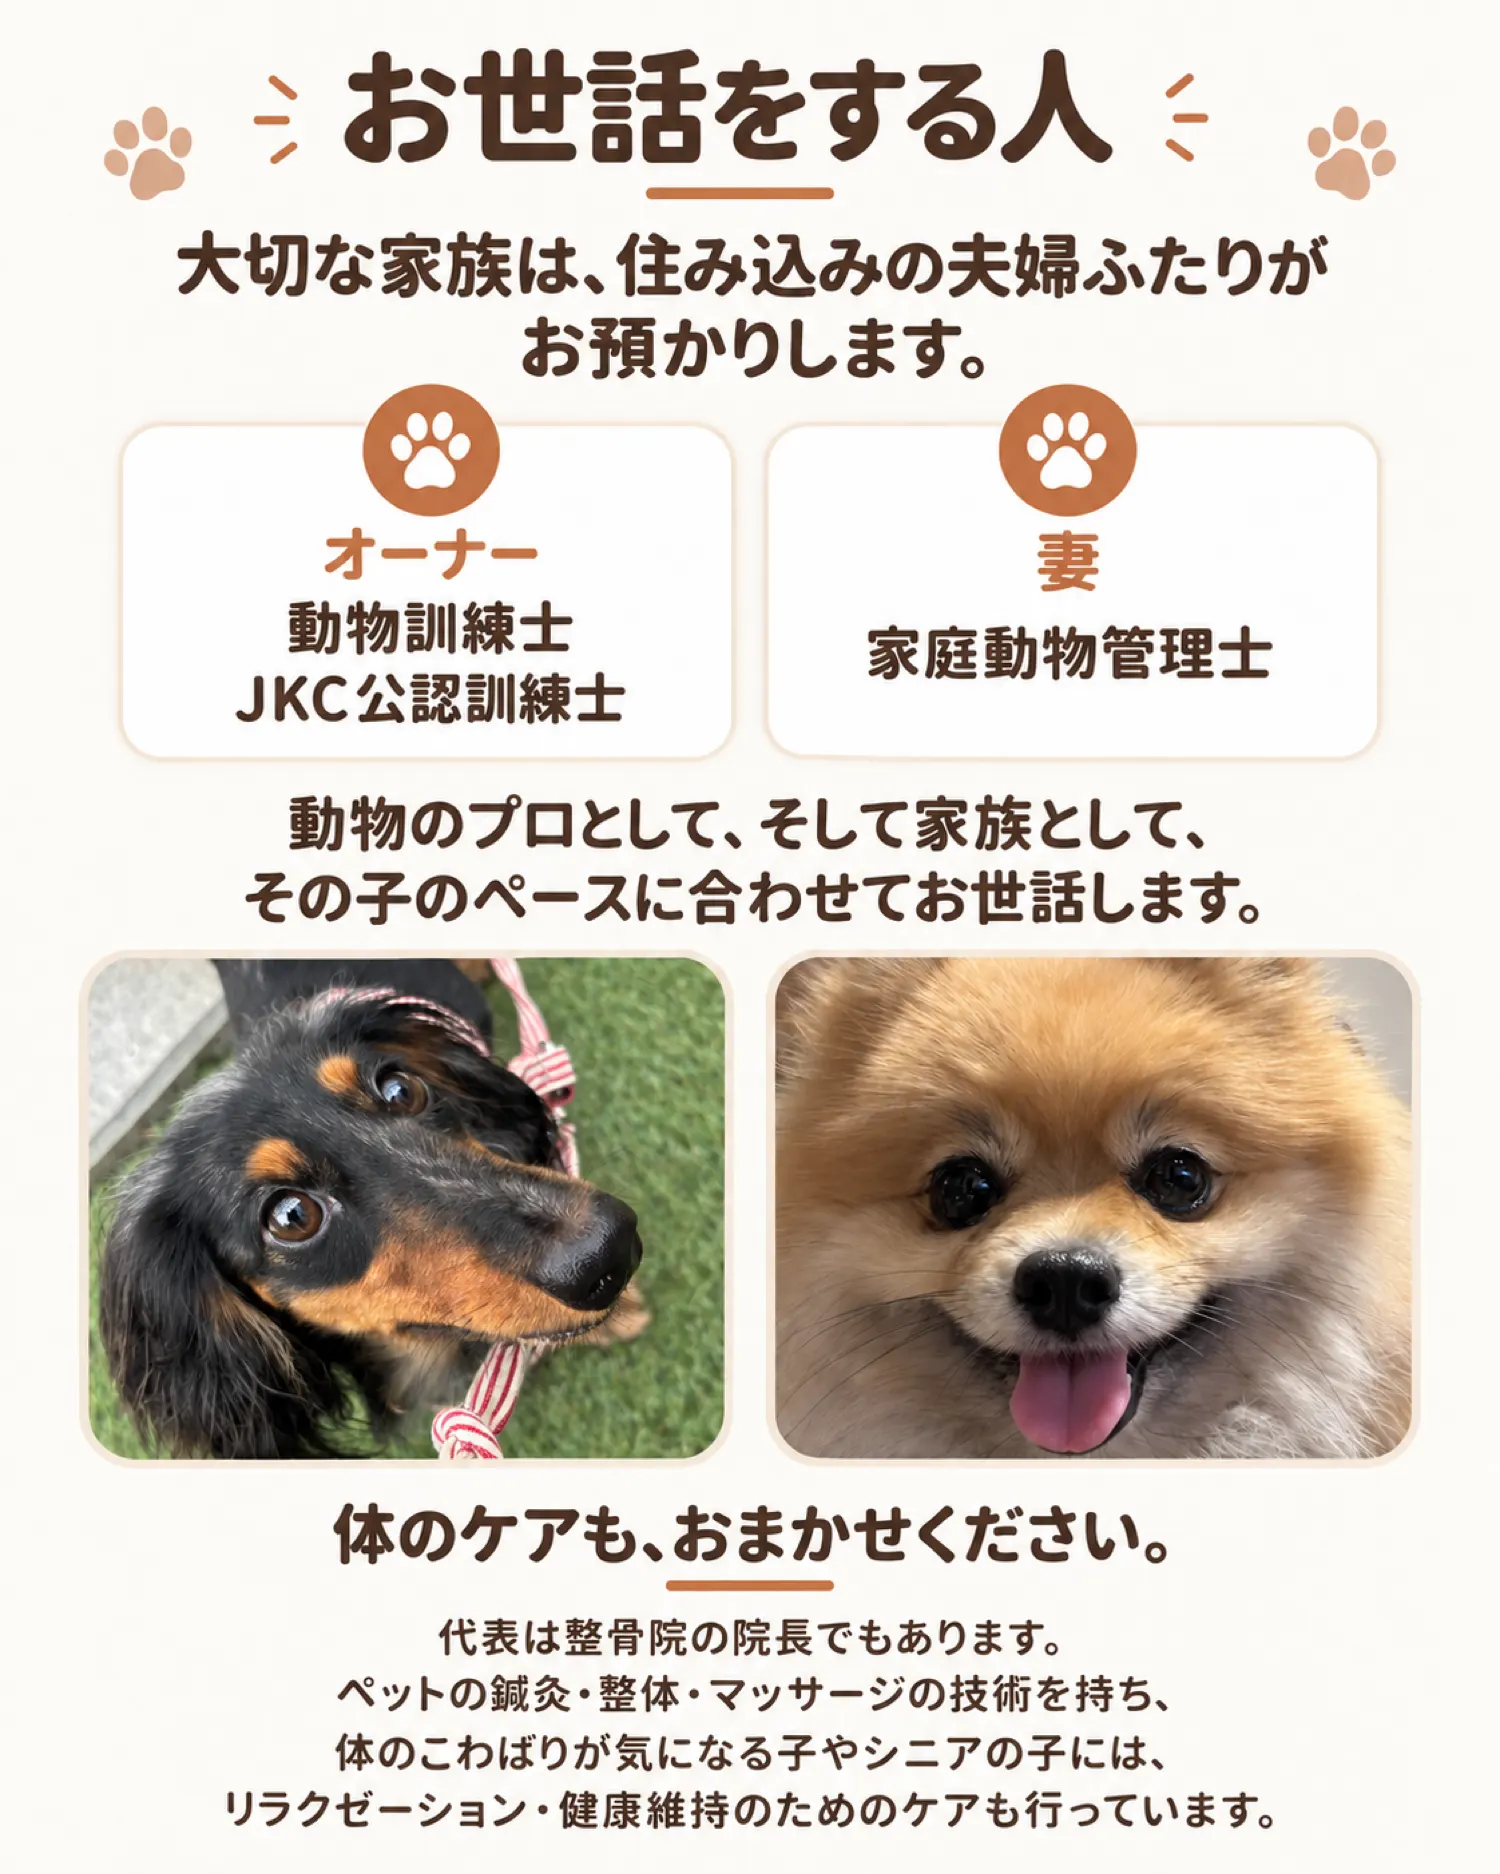
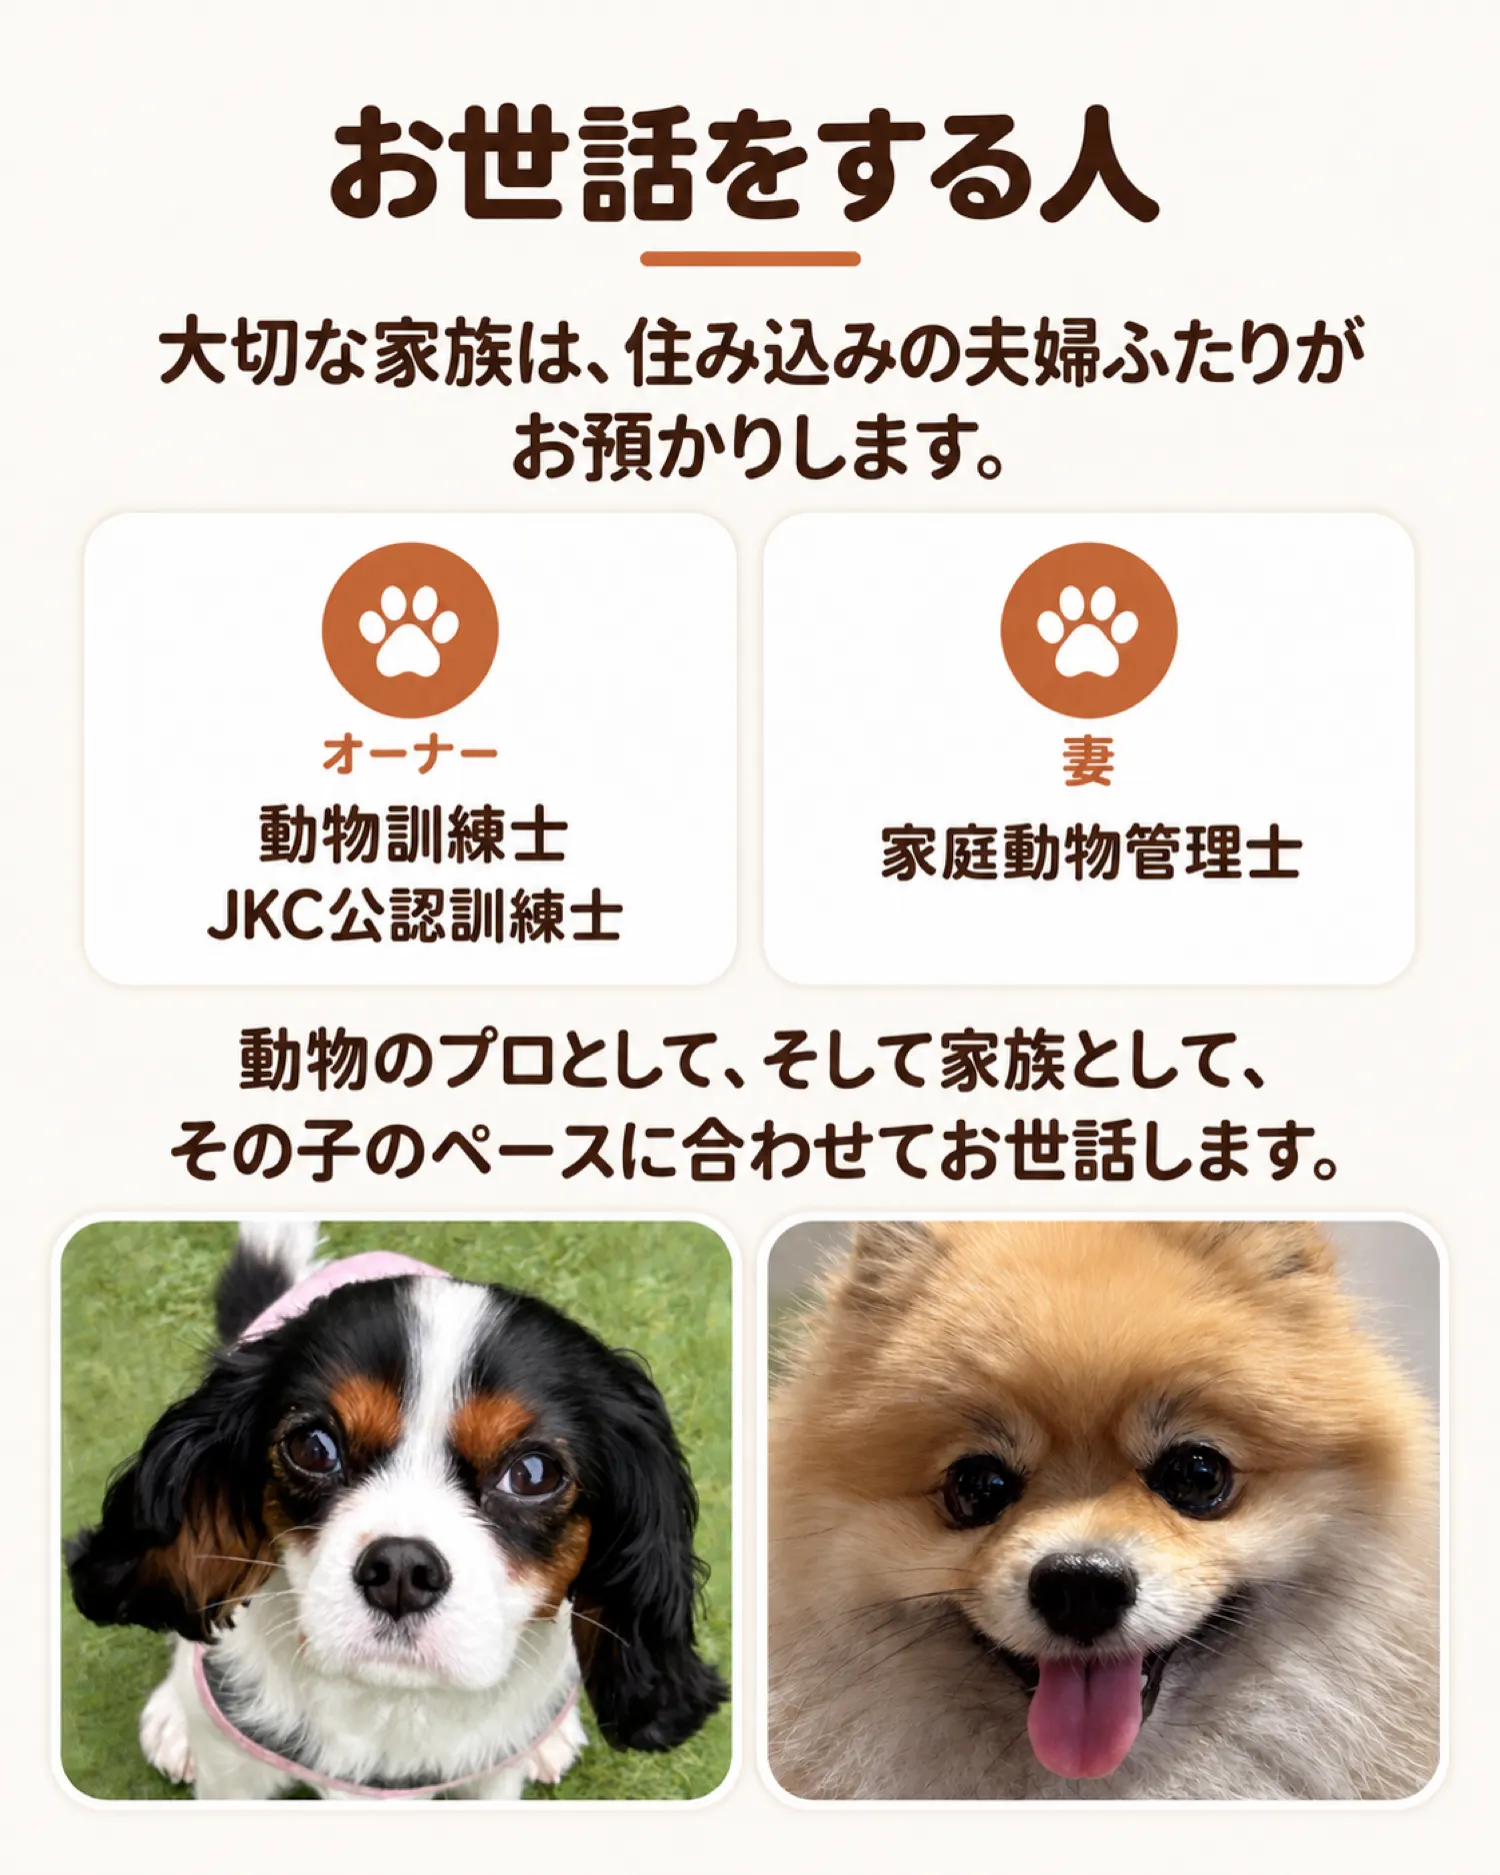
update

diff --git a/index.html b/index.html
@@ -115,8 +115,8 @@
 
       <!-- ▼⑨ お世話をする人 -->
       <section class="slice">
-        <img src="img/09-staff.webp?v=1" width="1500" height="1874" loading="lazy"
-             alt="お世話をする人。大切な家族は、住み込みの夫婦ふたりがお預かりします。オーナー：動物訓練士・JKC公認訓練士。妻：家庭動物管理士。動物のプロとして、そして家族として、その子のペースに合わせてお世話します。体のケアも、おまかせください。代表は整骨院の院長でもあります。ペットの鍼灸・整体・マッサージの技術を持ち、体のこわばりが気になる子やシニアの子には、リラクゼーション・健康維持のためのケアも行っています">
+        <img src="img/09-staff.webp?v=2" width="1500" height="1874" loading="lazy"
+             alt="お世話をする人。大切な家族は、住み込みの夫婦ふたりがお預かりします。オーナー：動物訓練士・JKC公認訓練士。妻：家庭動物管理士。動物のプロとして、そして家族として、その子のペースに合わせてお世話します。">
       </section>
 
       <!-- ▼⑩ お預かりの実績 -->
